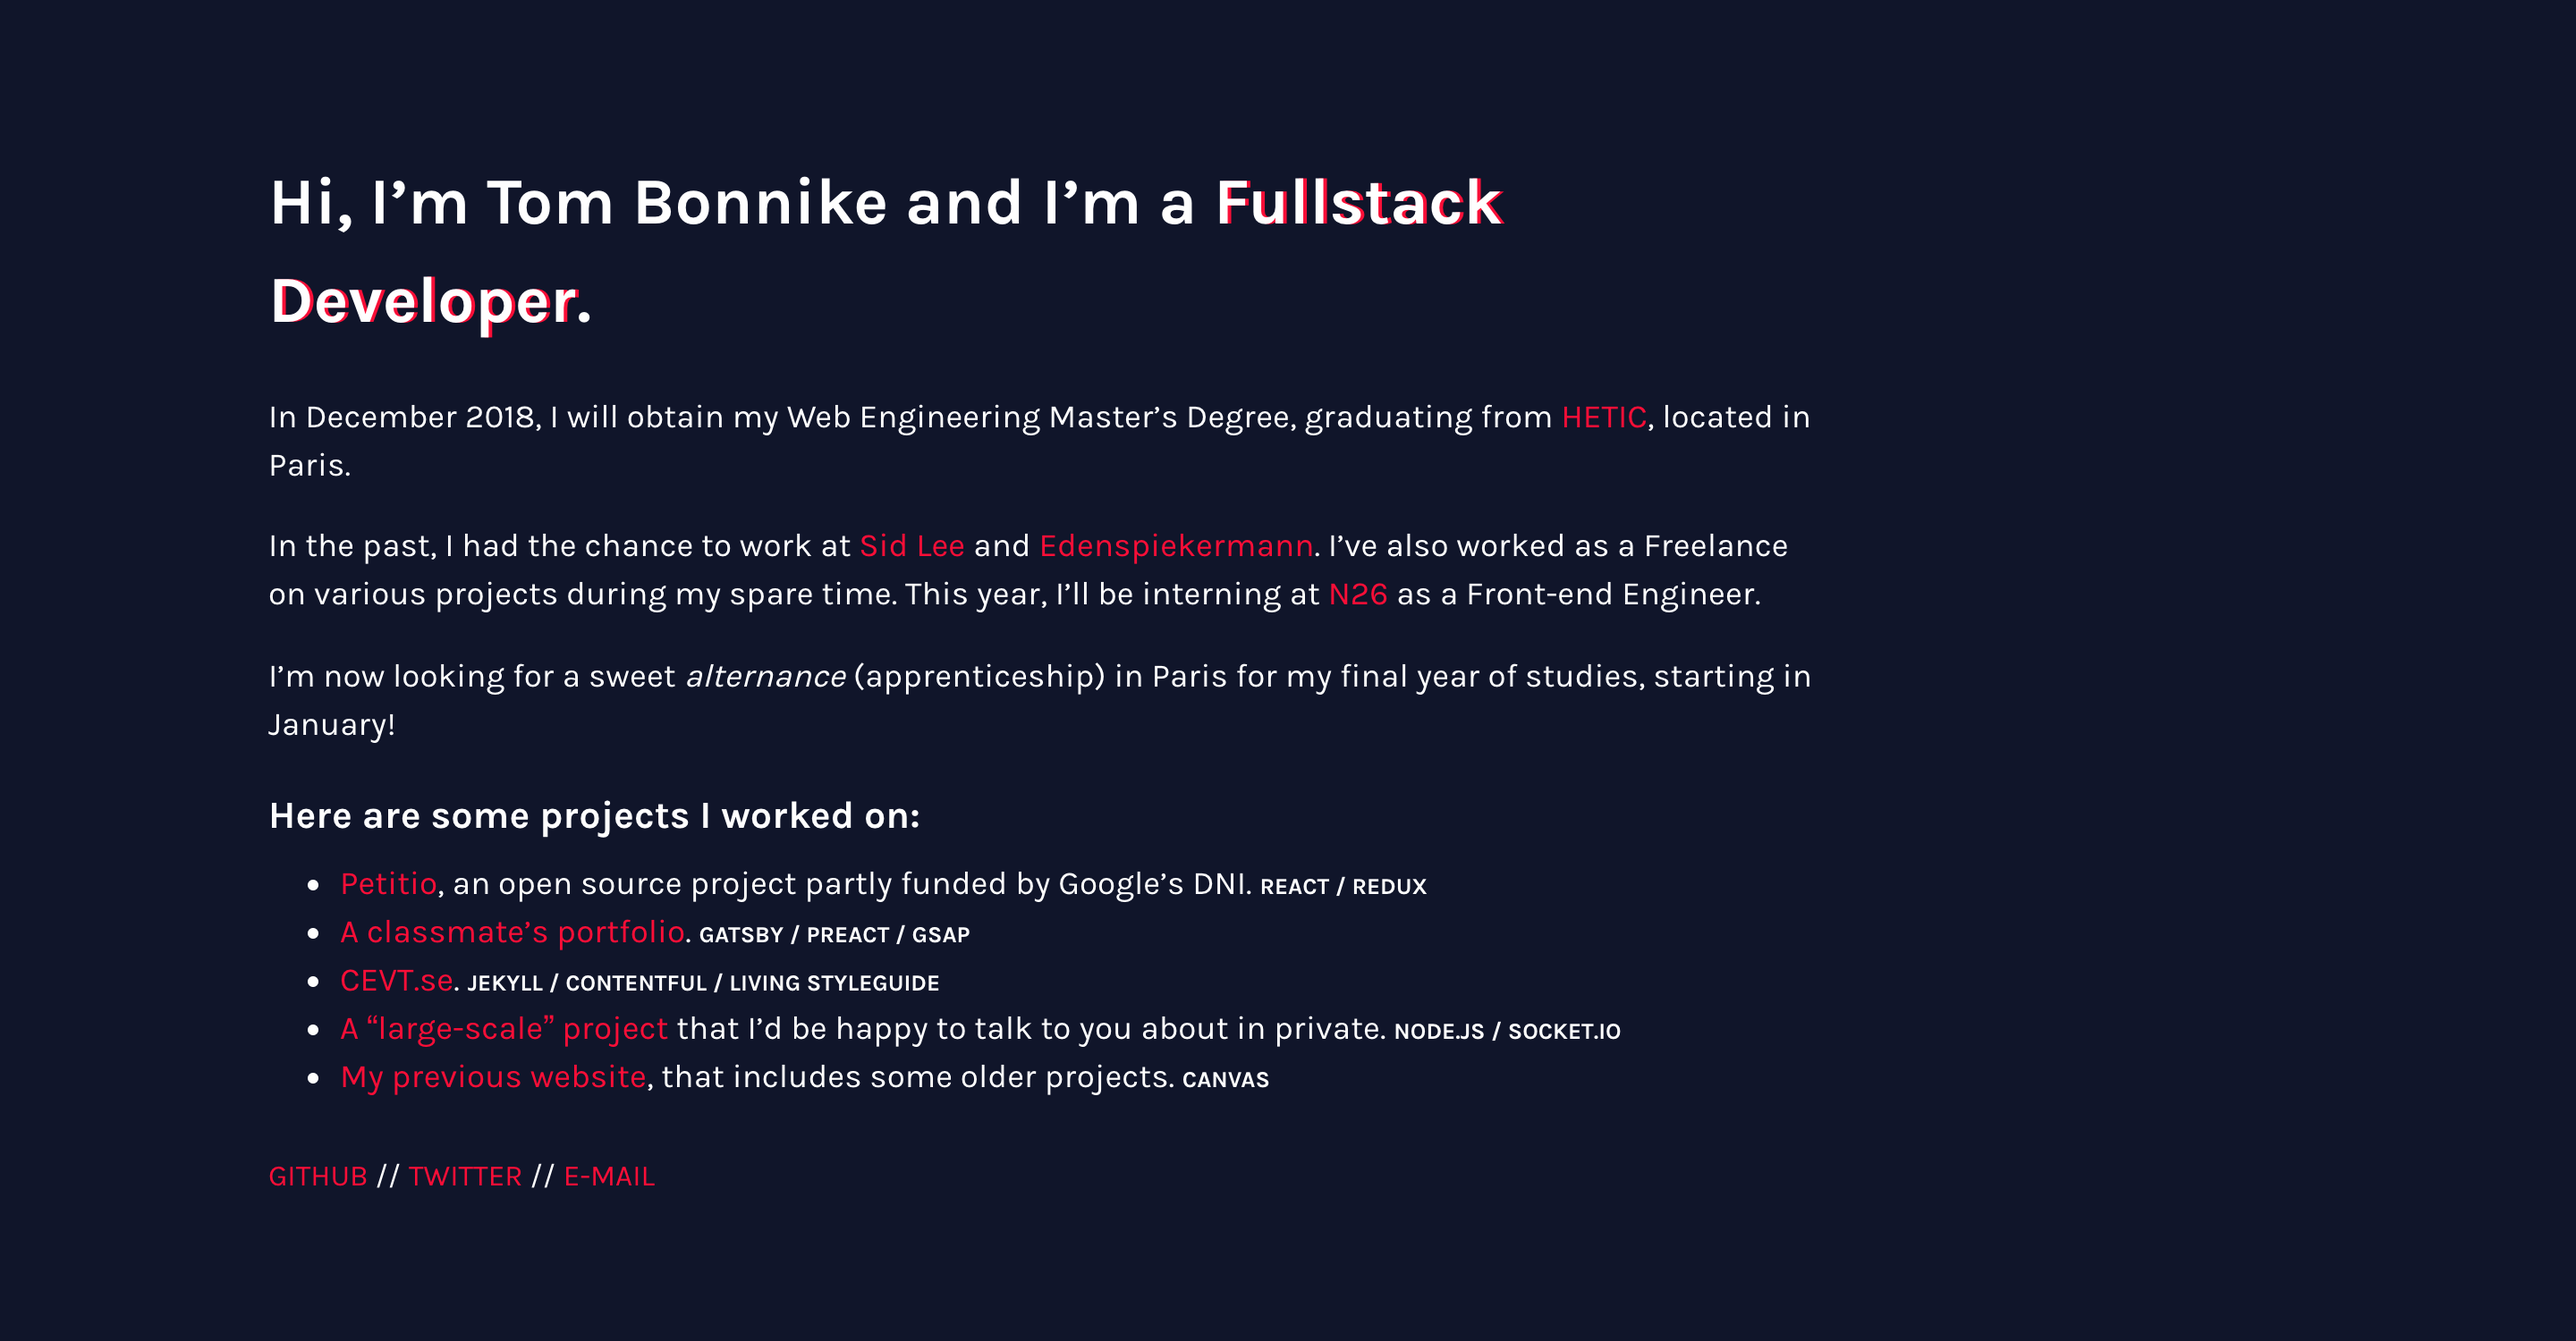
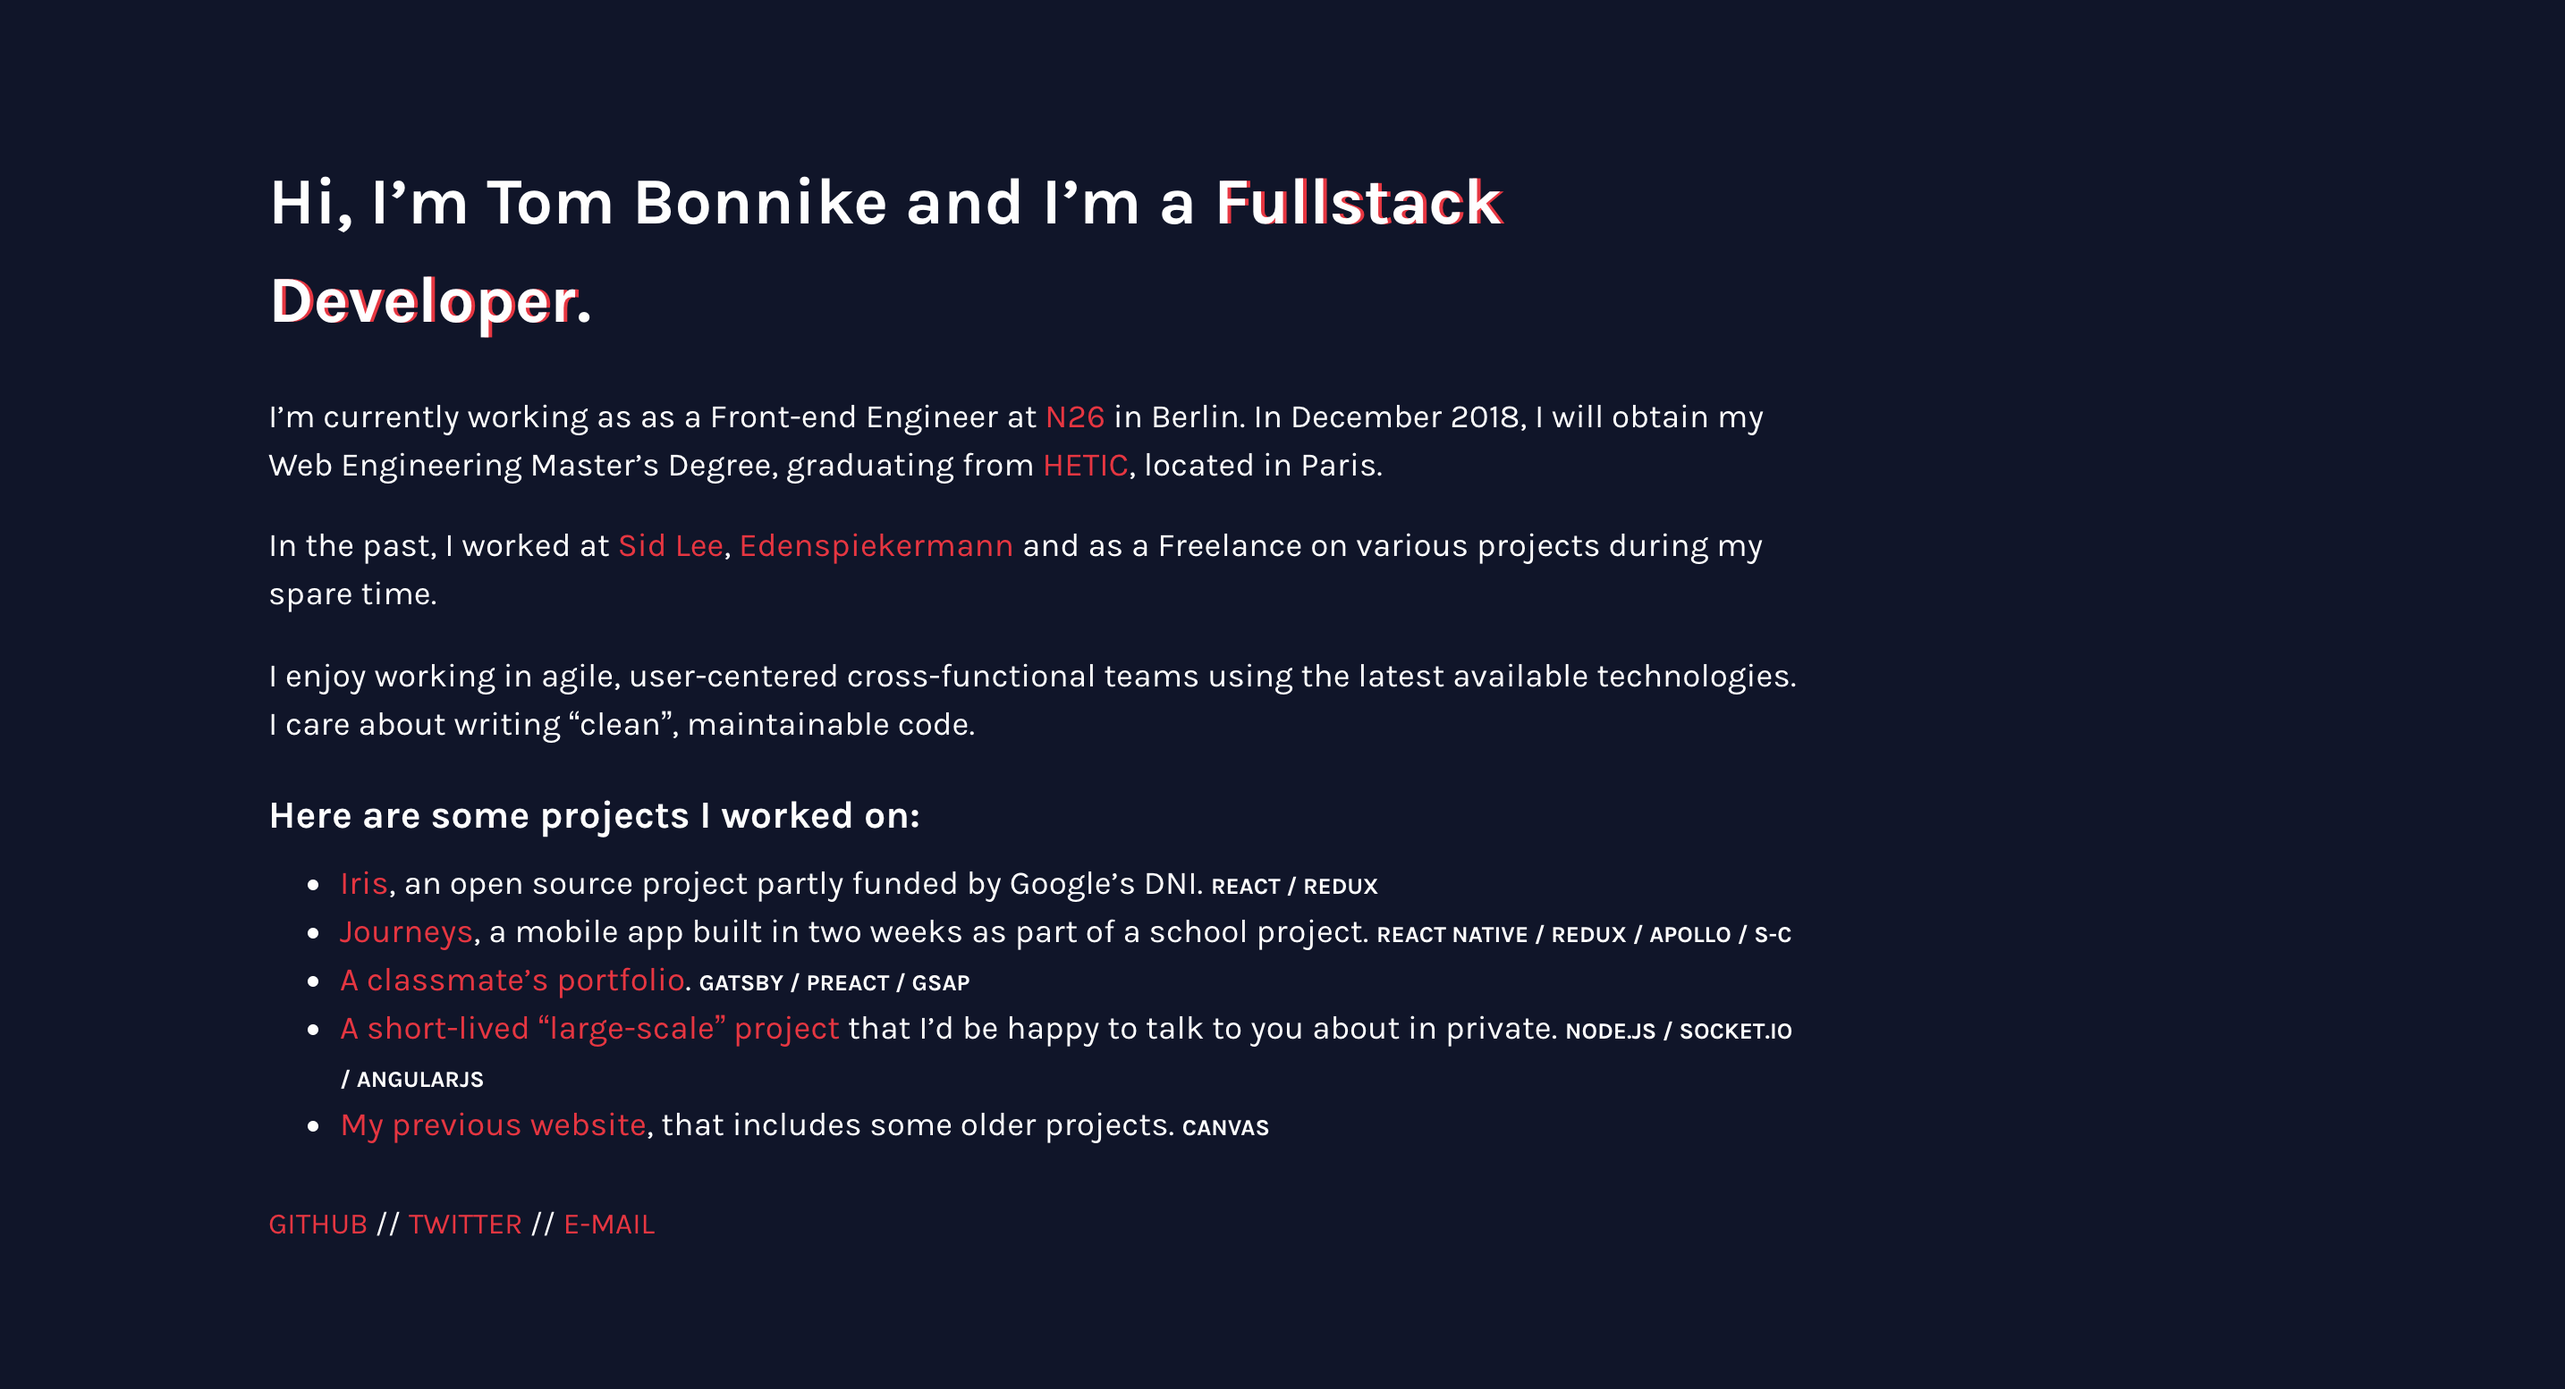
Updated copy and og image

diff --git a/index.html b/index.html
@@ -16,12 +16,12 @@
   <![endif]-->
 
   <title>Tom Bonnike | Fullstack Developer &amp; Freelance</title>
-  <meta name="description" content="I’m Tom Bonnike, a Fullstack Developer pursuing a Web Engineering Master’s Degree in Paris. I’m looking for an apprenticeship starting in January 2018.">
+  <meta name="description" content="I’m Tom Bonnike, a Fullstack Developer working for N26 in Berlin and pursuing a Web Engineering Master’s Degree in Paris.">
   <meta name="google-site-verification" content="sT3IJVfwaK_k_30mqgTeJdqxs3t87kGcL2lOoHZBQaU">
 
   <meta property="og:type" content="website">
   <meta property="og:title" content="Tom Bonnike | Fullstack Developer &amp; Freelance">
-  <meta property="og:description" content="I’m Tom Bonnike, a Fullstack Developer pursuing a Web Engineering Master’s Degree in Paris. I’m looking for an apprenticeship starting in January 2018.">
+  <meta property="og:description" content="I’m Tom Bonnike, a Fullstack Developer working for N26 in Berlin and pursuing a Web Engineering Master’s Degree in Paris.">
   <meta property="og:site_name" content="tom-bonnike.com">
   <meta property="og:url" content="http://tom-bonnike.com">
   <meta property="og:image" content="http://tom-bonnike.com/assets/images/website-og-image.png">
@@ -35,21 +35,23 @@
 
     <section class="about">
       <p>
-        In December 2018, I will obtain my Web Engineering Master’s Degree, graduating from <a target="_blank" rel="noopener noreferrer" href="http://www.hetic.net/">HETIC</a>, located in Paris.
+        I’m currently working as as a Front-end Engineer at
+        <a target="_blank" rel="noopener noreferrer" href="https://n26.com/">N26</a> in Berlin.
+        In December 2018, I will obtain my Web Engineering Master’s Degree, graduating from
+        <a target="_blank" rel="noopener noreferrer" href="http://www.hetic.net/">HETIC</a>, located in Paris.
       </p>
 
       <p>
-        In the past, I worked at <a target="_blank" rel="noopener noreferrer" href="http://sidlee.com/">Sid Lee</a>, <a target="_blank" rel="noopener noreferrer" href="https://www.edenspiekermann.com/">Edenspiekermann</a> and as a Freelance on various projects during my spare time. I’m currently interning at <a target="_blank" rel="noopener noreferrer" href="https://n26.com/">N26</a> as a Front-end Engineer.
+        In the past, I worked at
+        <a target="_blank" rel="noopener noreferrer" href="http://sidlee.com/">Sid Lee</a>,
+        <a target="_blank" rel="noopener noreferrer" href="https://www.edenspiekermann.com/">Edenspiekermann</a>
+        and as a Freelance on various projects during my spare time.
       </p>
 
       <p>
         I enjoy working in agile, user-centered cross-functional teams using the latest available technologies.
         <br>
         I care about writing “clean”, maintainable code.
-      </p>
-
-      <p>
-        I’m currently looking for a sweet <span class="italic" lang="fr">alternance</span> (apprenticeship) for my final year of studies, starting in January!
       </p>
     </section>
 
